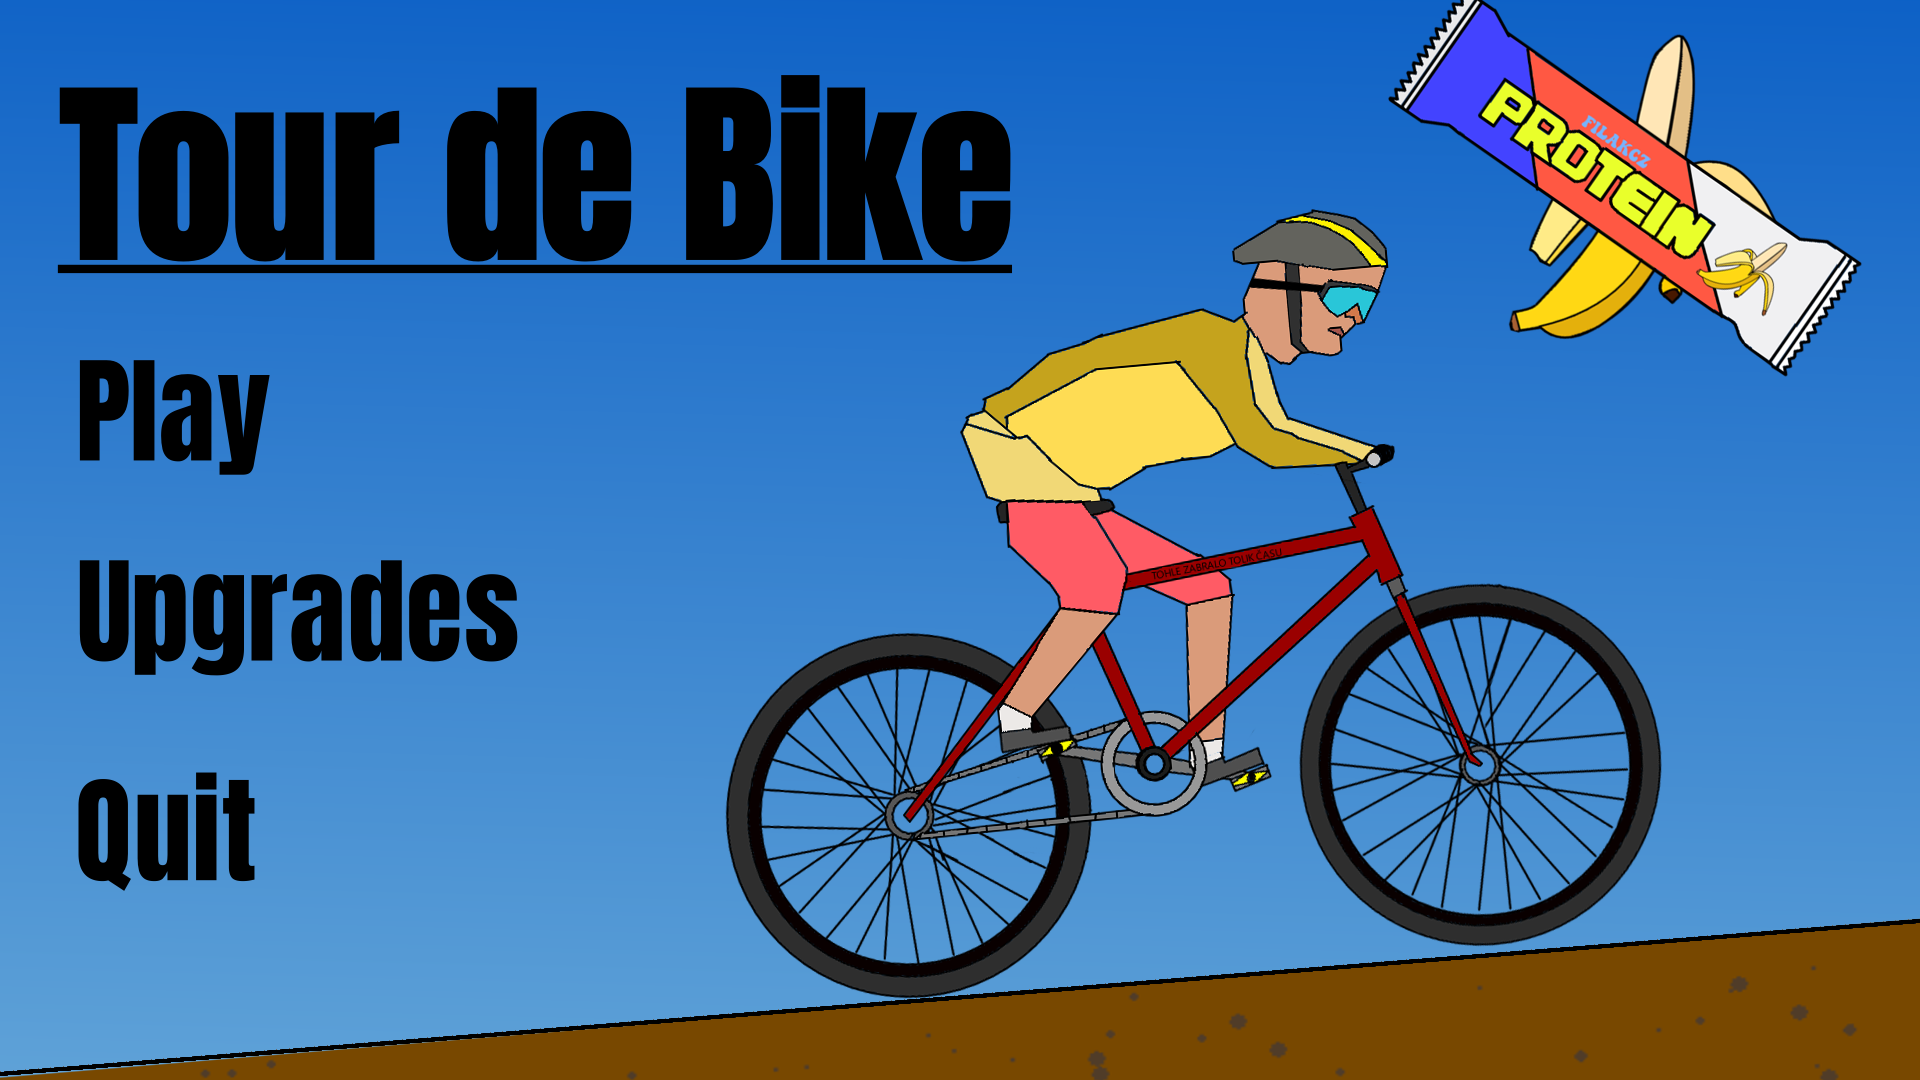
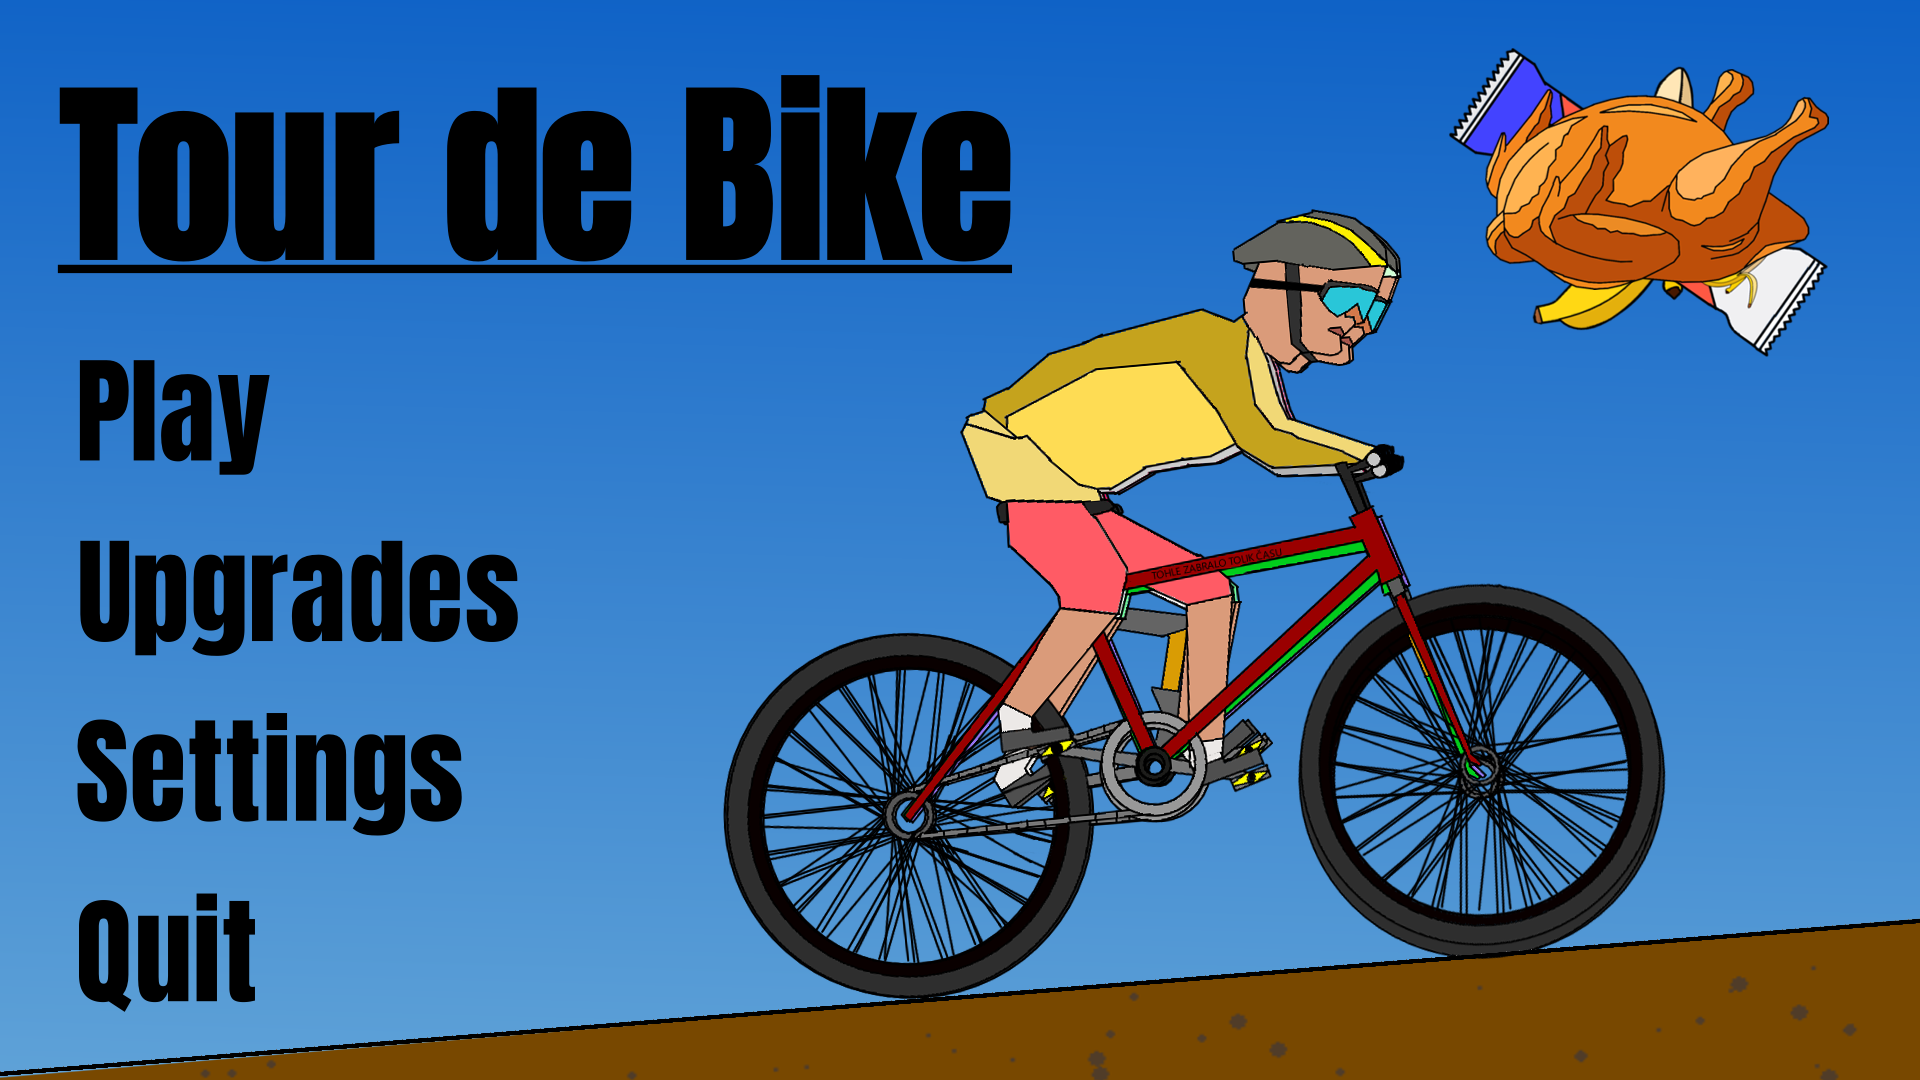
Kure 🐔

diff --git a/hra.py b/hra.py
@@ -226,15 +226,21 @@ def vykresli_mraky(screen, kamera_x, kamera_y, mraky):
             x = int(m["x"] - kamera_x * m["parallax"])
         screen.blit(img, (x, y))
 
-font = pygame.font.SysFont("Arial", 50)
 banan_img = pygame.image.load("img/banan.png").convert_alpha()
 k = 70 / banan_img.get_width()
 banan_img = pygame.transform.smoothscale(banan_img, (int(banan_img.get_width() * k), int(banan_img.get_height() * k)))
 banan_energie = 30
+
 tycinka_img = pygame.image.load("img/tycinka.png").convert_alpha()
 k = 120 / tycinka_img.get_width()
 tycinka_img = pygame.transform.smoothscale(tycinka_img, (int(tycinka_img.get_width() * k), int(tycinka_img.get_height() * k)))
 tycinka_energie = 50
+
+kure_img = pygame.image.load("img/kure.png").convert_alpha()
+k = 85 / kure_img.get_width()
+kure_img = pygame.transform.smoothscale(kure_img, (int(kure_img.get_width() * k), int(kure_img.get_height() * k)))
+kure_energie = 100
+
 
 energie_predmety = pygame.sprite.Group()
 
@@ -288,8 +294,8 @@ def main(kolo):
     vzdalenost_predmetu = 1000
     kolikaty_banan = 0
 
-    # TODO: upgrad z bananu na tycinku pro vice energie
     energie_predmety.add(EnergetickyPredmet(1500, fyzika.generace_bod(1500)-190, tycinka_img, tycinka_energie))
+    energie_predmety.add(EnergetickyPredmet(1400, fyzika.generace_bod(1400)-190, kure_img, kure_energie))
 
     camera = Vector(0, 0)
 

diff --git a/menu.py b/menu.py
@@ -22,12 +22,15 @@ def menu():
         screen.blit(menu_img, (0,0))
 
         tlacitko_start = pygame.Rect(50,335,250,150)
-        tlacitko_vylepseni = pygame.Rect(50,535,500,150)
-        tlacitko_konec = pygame.Rect(50,750,250,150)
+        tlacitko_vylepseni = pygame.Rect(50,525,500,150)
+        tlacitko_nastaveni = pygame.Rect(50,700,450,150)
+        tlacitko_konec = pygame.Rect(50,880,250,150)
+        
         
         # hitboxy
         pygame.draw.rect(screen, "red",tlacitko_start,1)
         pygame.draw.rect(screen, "red",tlacitko_vylepseni,1)
+        pygame.draw.rect(screen, "red", tlacitko_nastaveni, 1)
         pygame.draw.rect(screen, "red",tlacitko_konec,1)
 
         pygame.display.flip()
@@ -47,6 +50,8 @@ def menu():
                     spust_hru(akt_kolo)
                 elif tlacitko_vylepseni.collidepoint(event.pos):
                     print("vylepseni neni :(")
+                elif tlacitko_nastaveni.collidepoint(event.pos):
+                    print("nastaveni neni")
                 elif tlacitko_konec.collidepoint(event.pos):
                     pygame.quit()
                     quit()
